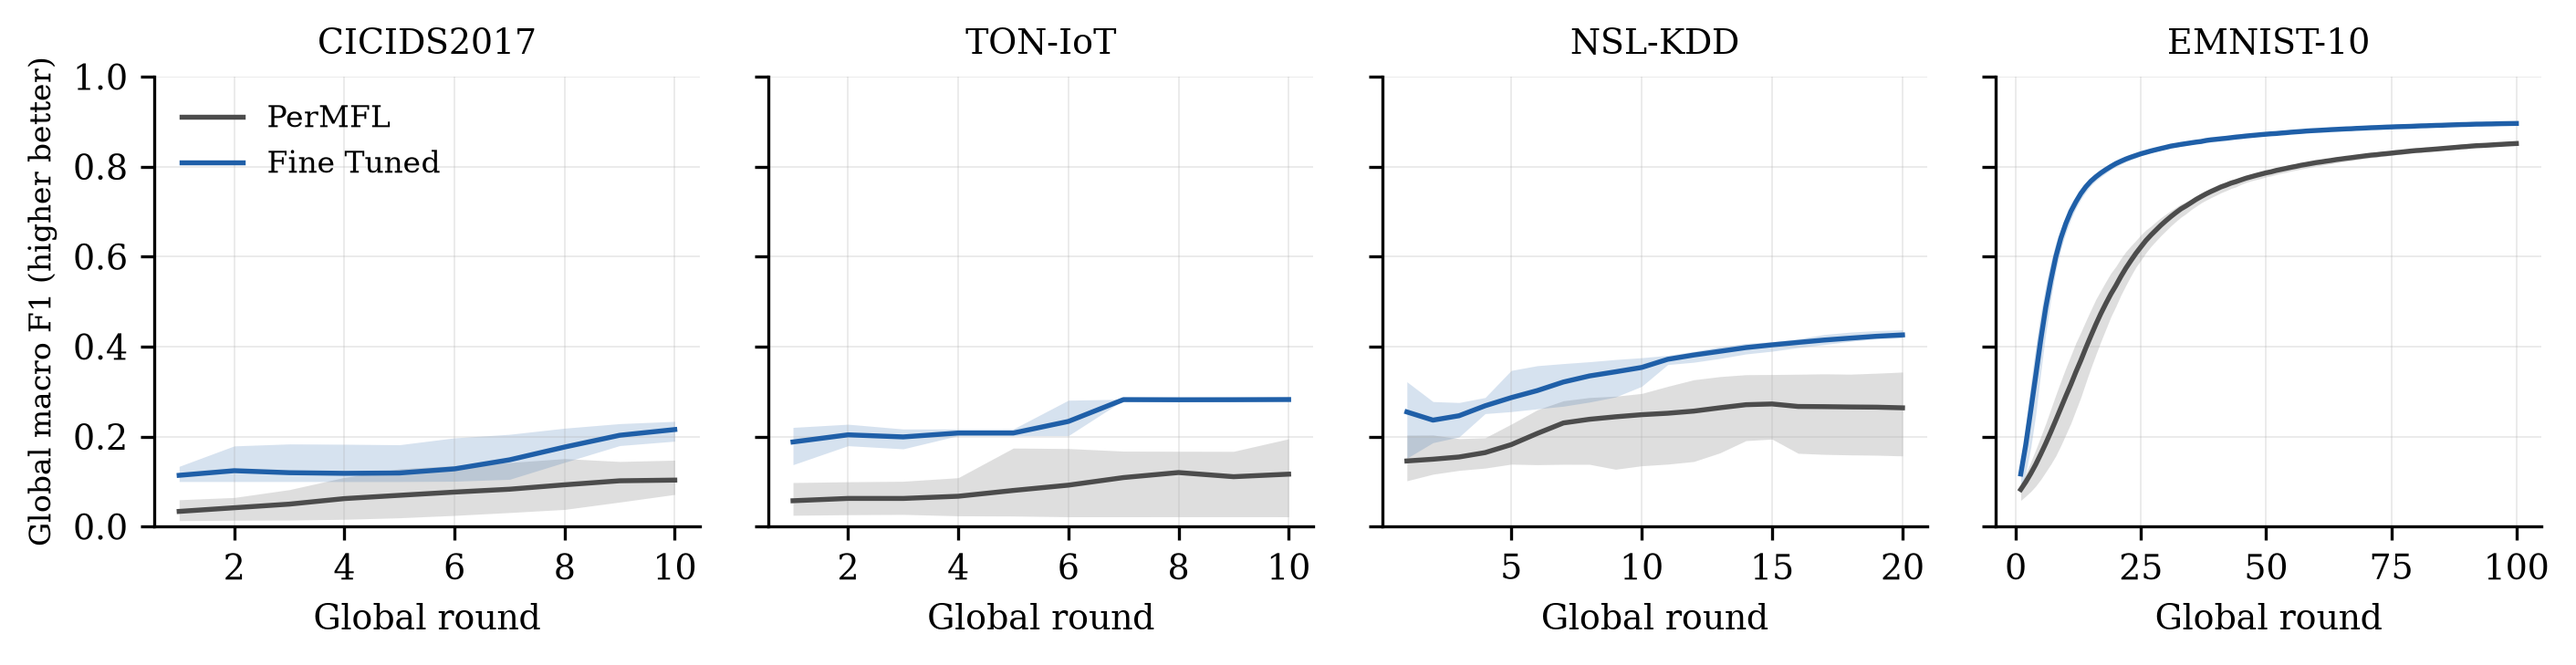
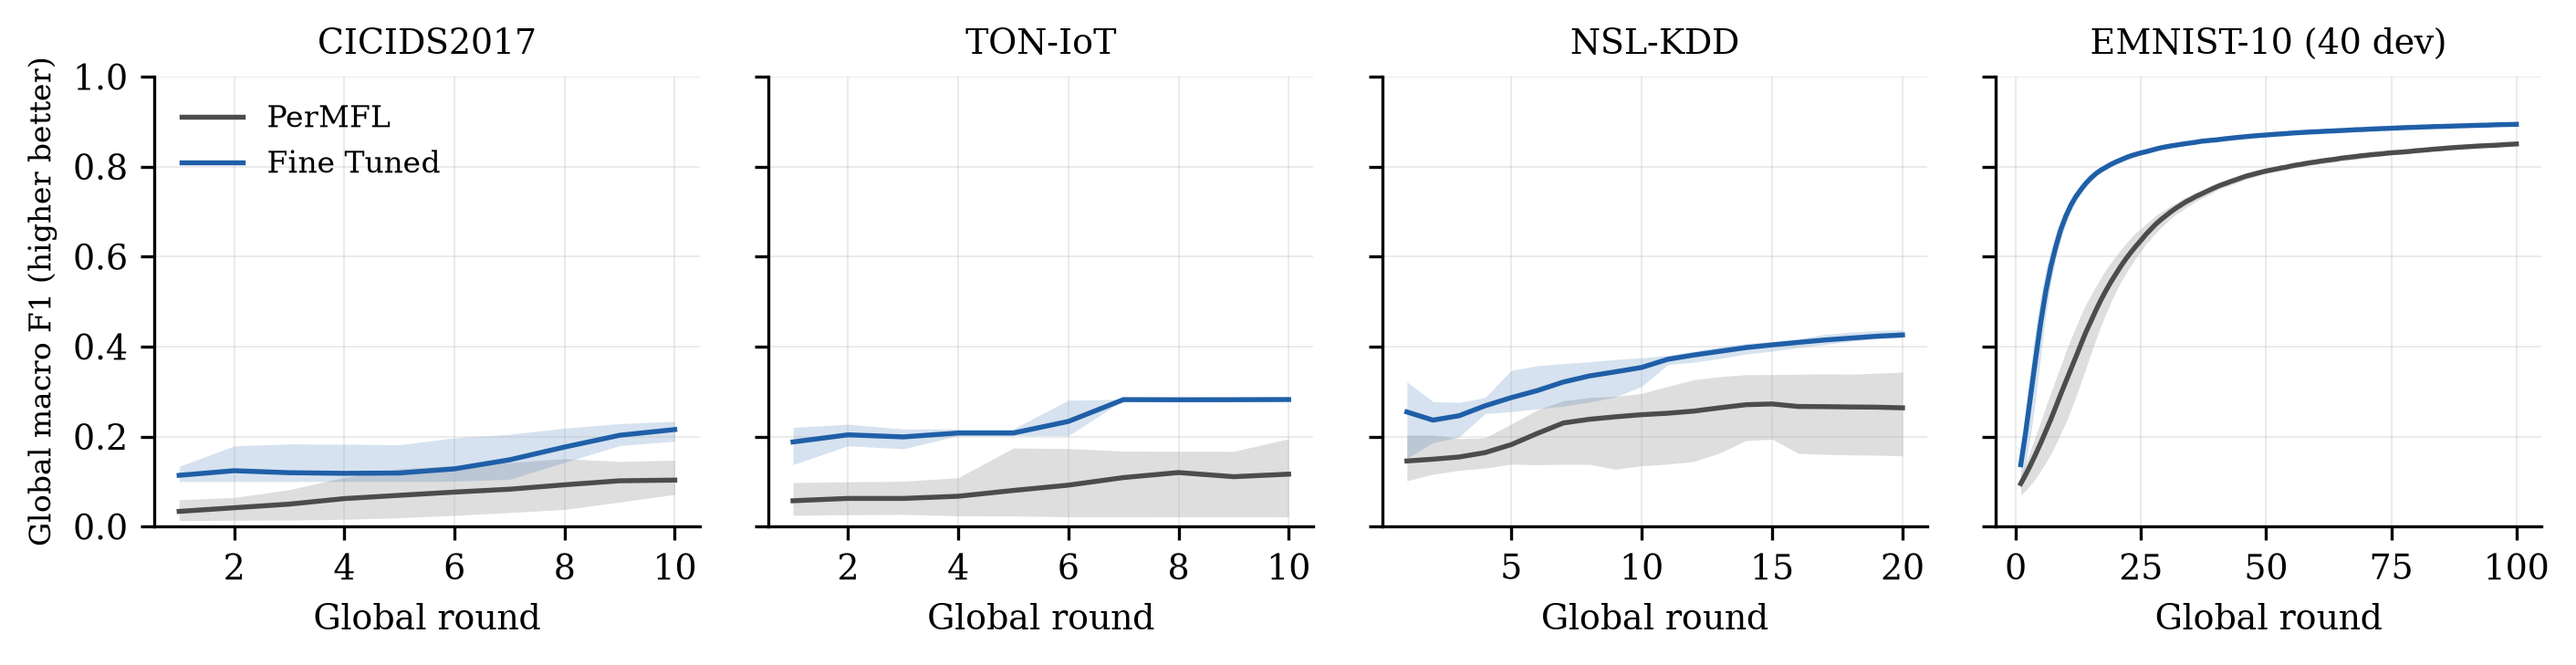
Point EMNIST figures at the 40-device runs; record the horizon limitation
The convergence figure now uses the B2 runs at the paper's client count.
It also makes plain that the IDS runs stop at T=10 or 20 with both arms
still rising, against EMNIST plateauing by round 75 of 100. Recorded as a
limitation in results.md and as backlog item B2b.

diff --git a/tools/make_figures.py b/tools/make_figures.py
@@ -25,7 +25,7 @@ def band(ds, exps, key):
 PANELS=[("CICIDS2017","Cicids",[906,908,910,912,914],[907,909,911,913,915]),
         ("TON-IoT","Toniot",[926,928,930,932,934],[927,929,931,933,935]),
         ("NSL-KDD","Nslkdd",[936,938,940,942,944],[937,939,941,943,945]),
-        ("EMNIST-10","Emnist10",[2100,2102,2104],[2101,2103,2105])]
+        ("EMNIST-10 (40 dev)","Emnist10",[2200,2202,2204],[2201,2203,2205])]
 
 def convergence(key, ylab, fname):
     fig,axes=plt.subplots(1,4,figsize=(9.5,2.5),sharey=True)

diff --git a/docs/results.md b/docs/results.md
@@ -268,7 +268,22 @@ score, 0.9525 to 0.4012 at one setting, because a class absent from the loss
 cannot be predicted. It produces no global model at all, so it offers nothing to a
 host with no local data or one that has not yet seen a given attack.
 
-## 11. Coverage gaps
+## 11. A limitation the convergence figure exposes
+
+The IDS runs stop at T=10 (CICIDS2017, TON-IoT) and T=20 (NSL-KDD). The
+convergence figure shows both arms still rising at the final round on all three,
+against EMNIST-10 where the curves plateau by round 75 of 100.
+
+The IDS comparisons therefore measure which arm rises faster over the first ten
+rounds, not which converges to a better model. The direction of every IDS result
+is consistent with EMNIST at a converged horizon, so the conclusion is unlikely
+to reverse, but the effect sizes are not converged values and should not be
+reported as though they were.
+
+Closing this needs the IDS headline re-run at T=100 with L=20, matching EMNIST
+and the paper's loop shape. See backlog B2b.
+
+## 12. Coverage gaps
 
 | Missing | Detail |
 |---|---|

diff --git a/docs/backlog.md b/docs/backlog.md
@@ -33,6 +33,16 @@ figure, 96.49 PM or 91.68 GM.
 Both arms, three seeds, six runs. Roughly 20 minutes each, so about 90 minutes at
 two-way parallelism.
 
+### B2b. IDS headline at a converged horizon
+
+The IDS runs use T=10 with L=500; EMNIST and the paper use T=100 or 400 with
+L=20. Total local work is comparable but concentrated into a twentieth of the
+communication rounds, and the convergence figure shows both arms still rising at
+the final round on all three IDS datasets.
+
+Re-run the CICIDS headline at T=100, L=20, both arms, five seeds. Ten runs.
+Same for TON-IoT and NSL-KDD if the first shows the ordering holds.
+
 ### B3. Seed replication for the single-run sweeps
 
 The local-steps sweep and the communication sweep are reported as exploratory
